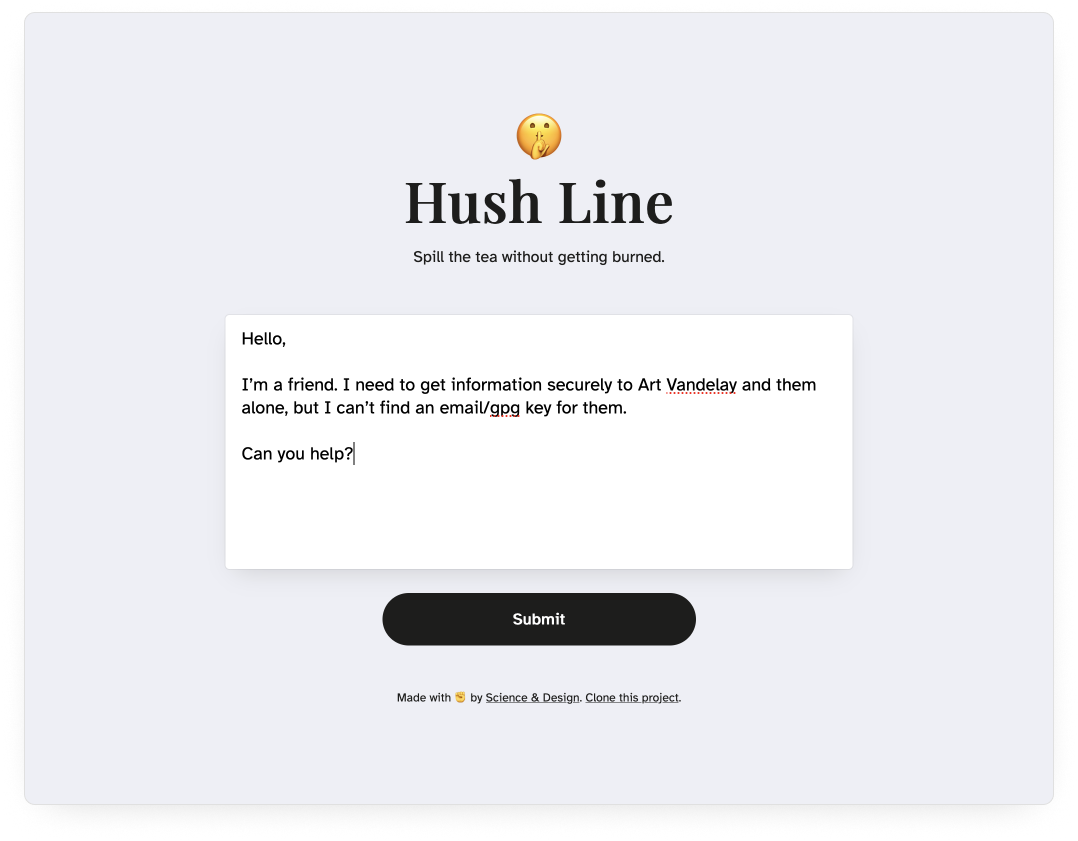
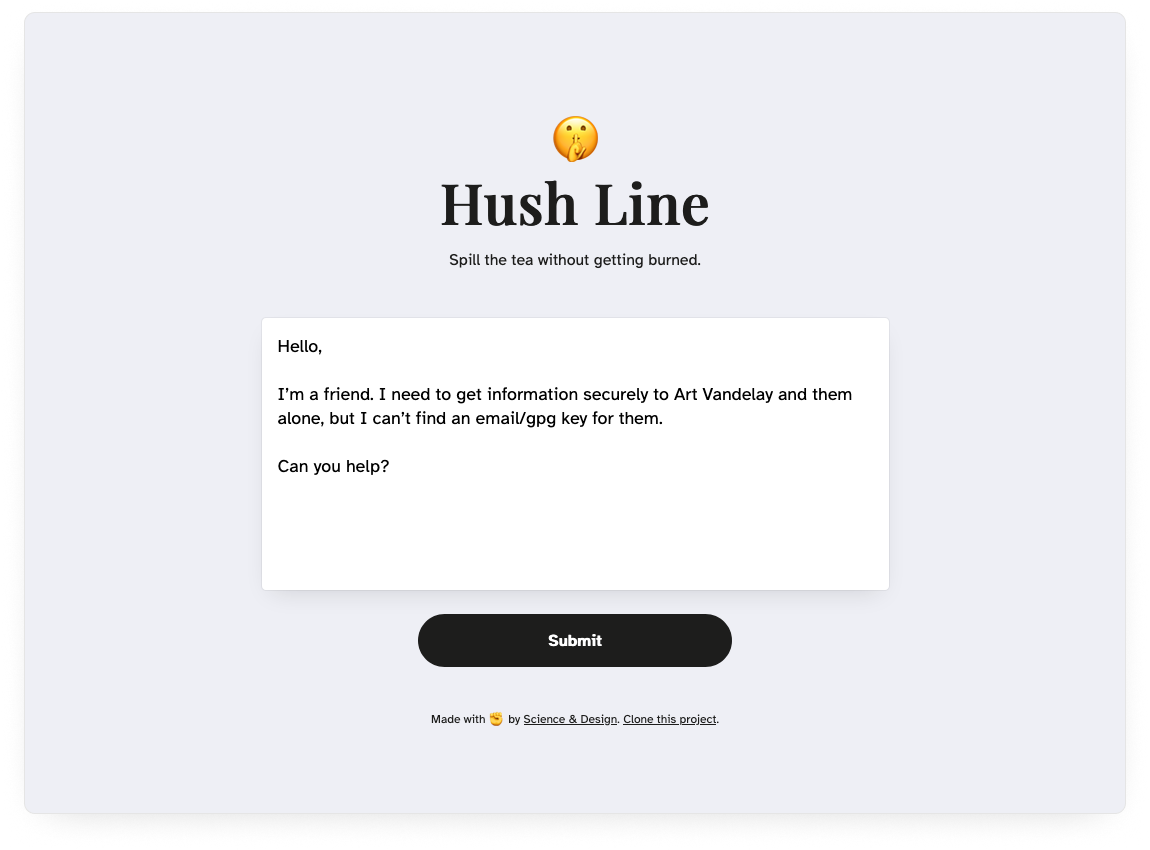
update images

diff --git a/index.html b/index.html
@@ -18,9 +18,6 @@ W3C/WHATWG Standards, etc - please consider contributing 🙏 -->
 
 	<link rel="icon" type="image/x-icon" href="design-system/images/favicon/favicon.ico">
 	<link rel="stylesheet" href="design-system/css/style.css">
-
-	<script src="design-system/js/jquery-min.js"></script>
-	<script src="design-system/js/design-system.js"></script>
 </head>
 
 <body>
@@ -70,7 +67,7 @@ W3C/WHATWG Standards, etc - please consider contributing 🙏 -->
 					</div>
 					<div class="description">
 						<div class="icon work"></div>
-						<h4>Employers / Board Rooms</h4>
+						<h4>Employers / Boards</h4>
 						<p>Build trust by providing an anonymous way for colleagues to leave suggestions.</p>
 					</div>
 					<div class="description">
@@ -147,6 +144,9 @@ W3C/WHATWG Standards, etc - please consider contributing 🙏 -->
 			<p><a href="https://github.com/scidsg/hushline-website" target="_blank" rel="noopener noreferrer">View on GitHub</a></p>
 		</div>
 	</footer>
+
+	<script src="design-system/js/jquery-min.js"></script>
+	<script src="design-system/js/design-system.js"></script>
 
 </body>
 

diff --git a/design-system/css/variables.css b/design-system/css/variables.css
@@ -47,8 +47,8 @@
   --font-size-article: 1.25rem;
   --font-size-1: 4.5rem;
   --font-size-2: 2.75rem;
-  --font-size-3: 2.25rem;
-  --font-size-4: 2rem;
+  --font-size-3: 2rem;
+  --font-size-4: 1.75rem;
   --font-size-5: 1.5rem;
   --font-size-6: 1.25rem;
 
